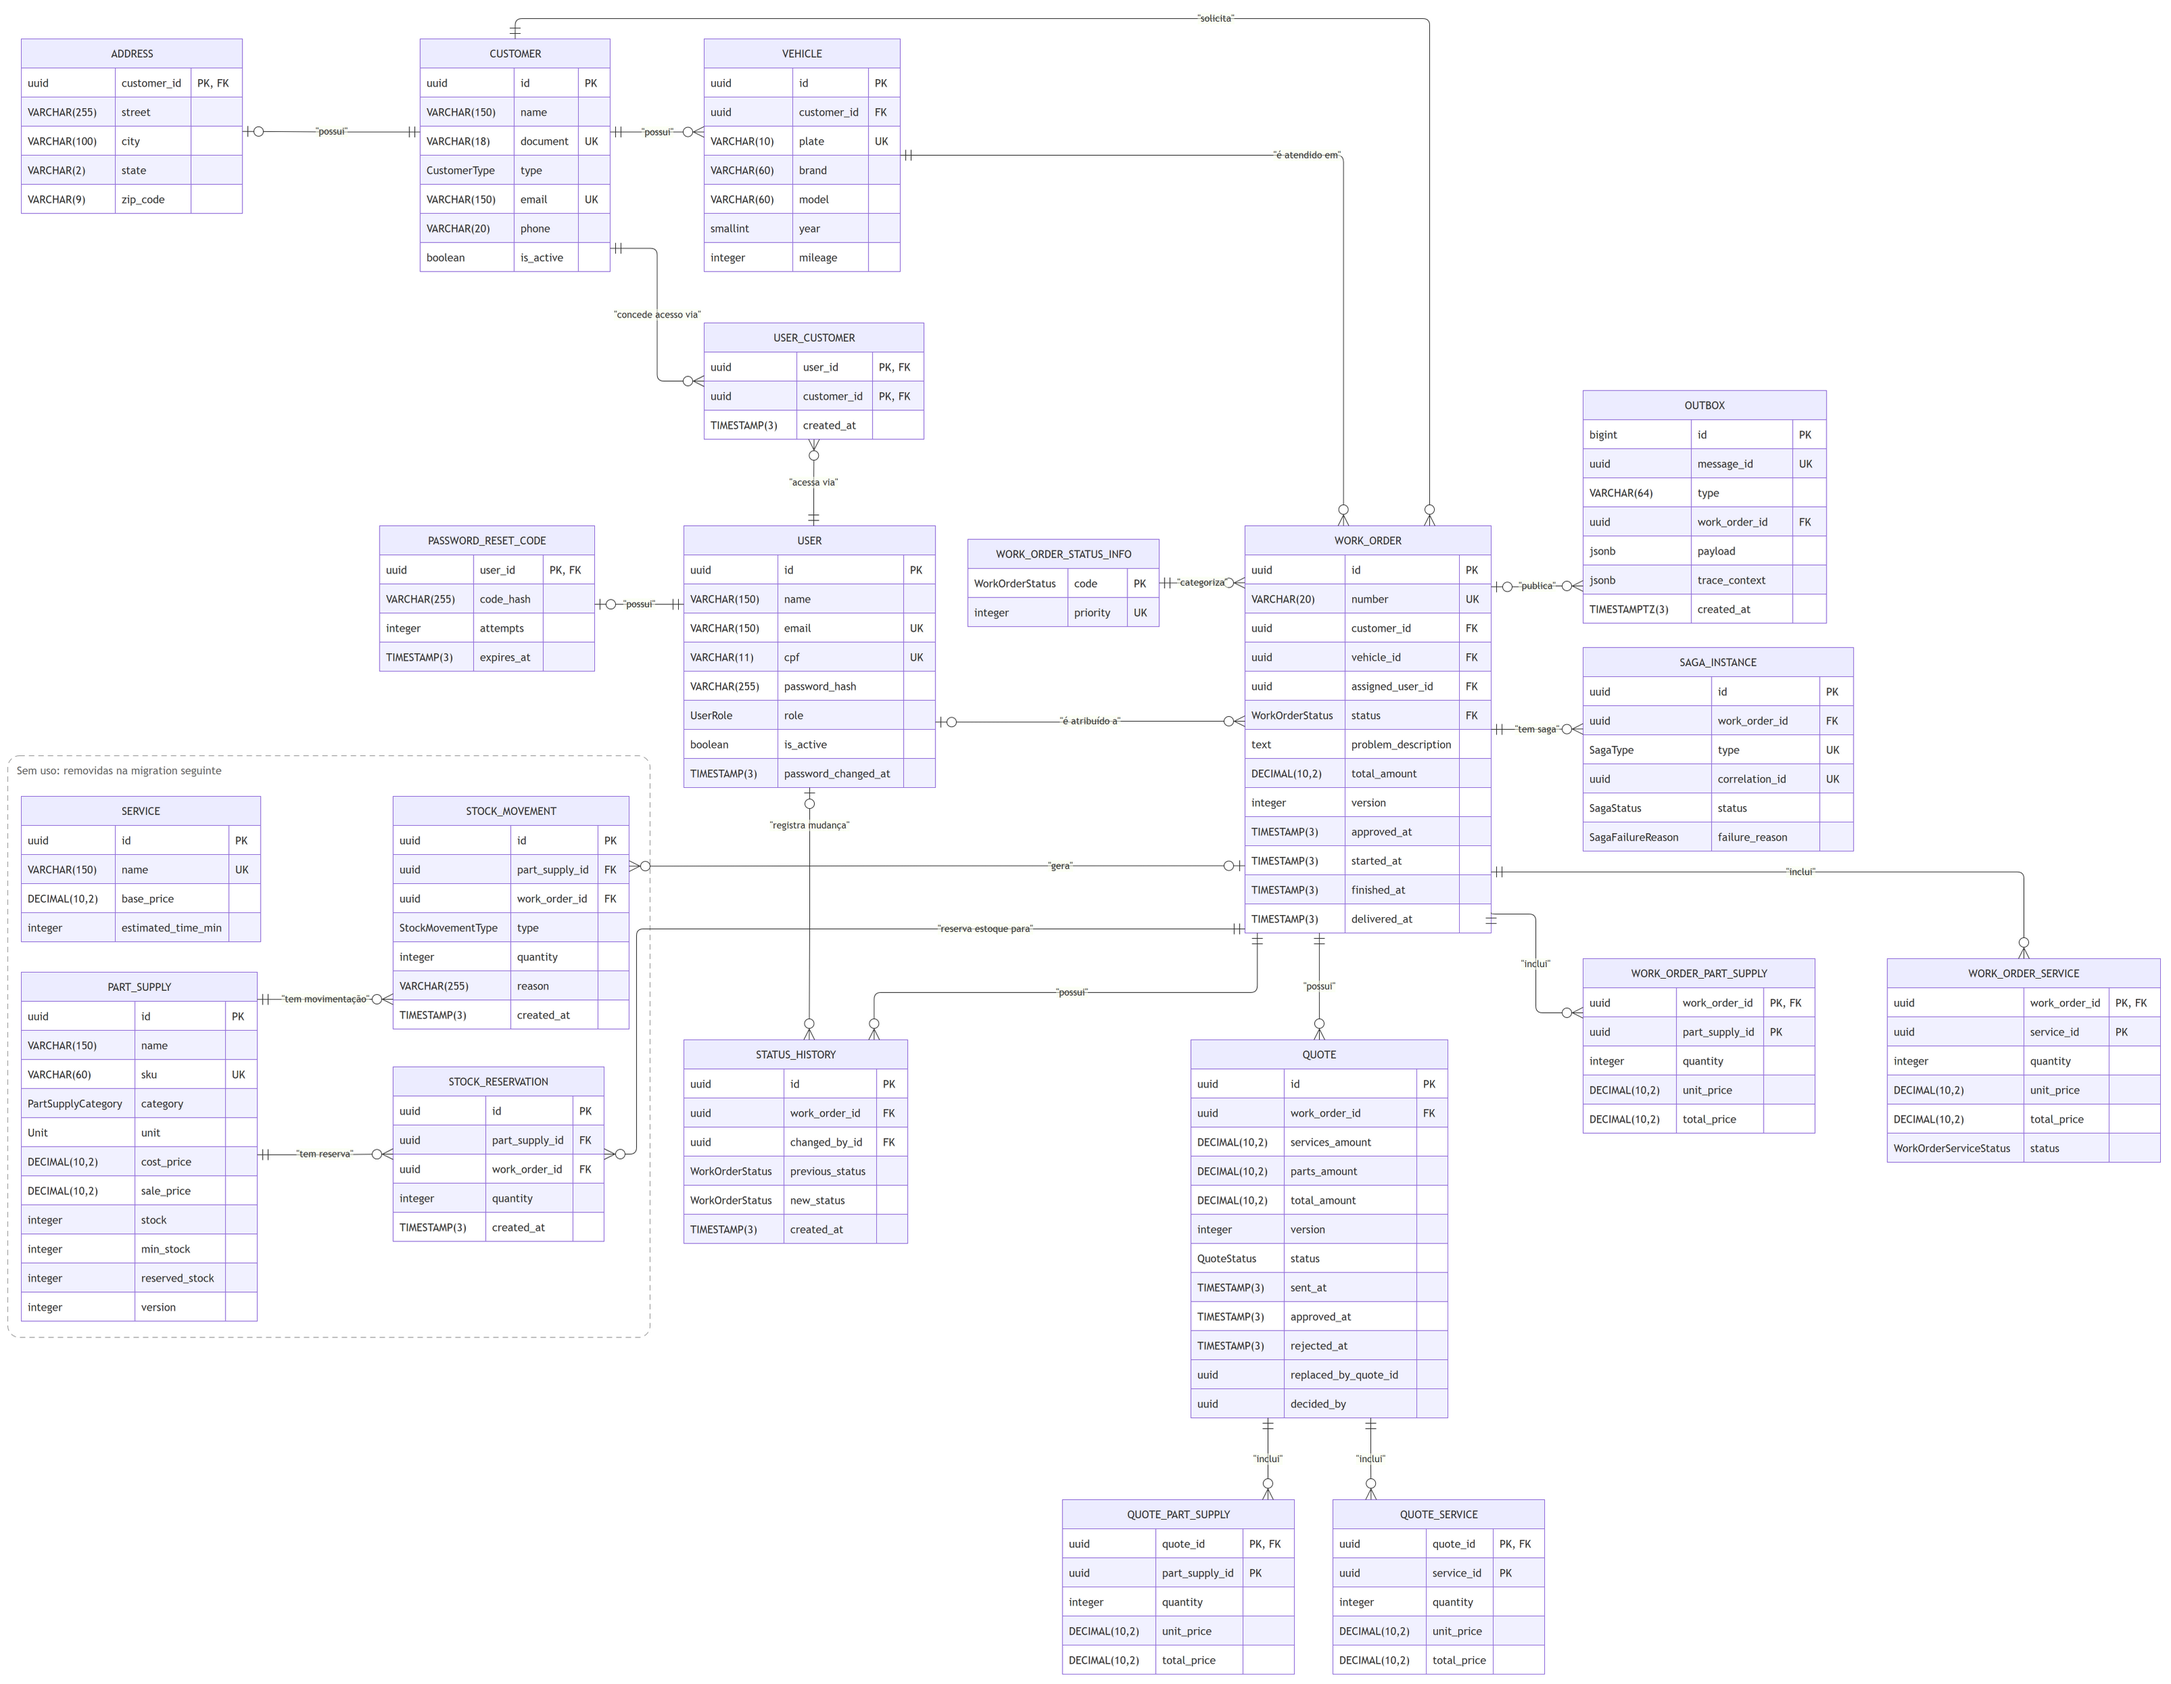
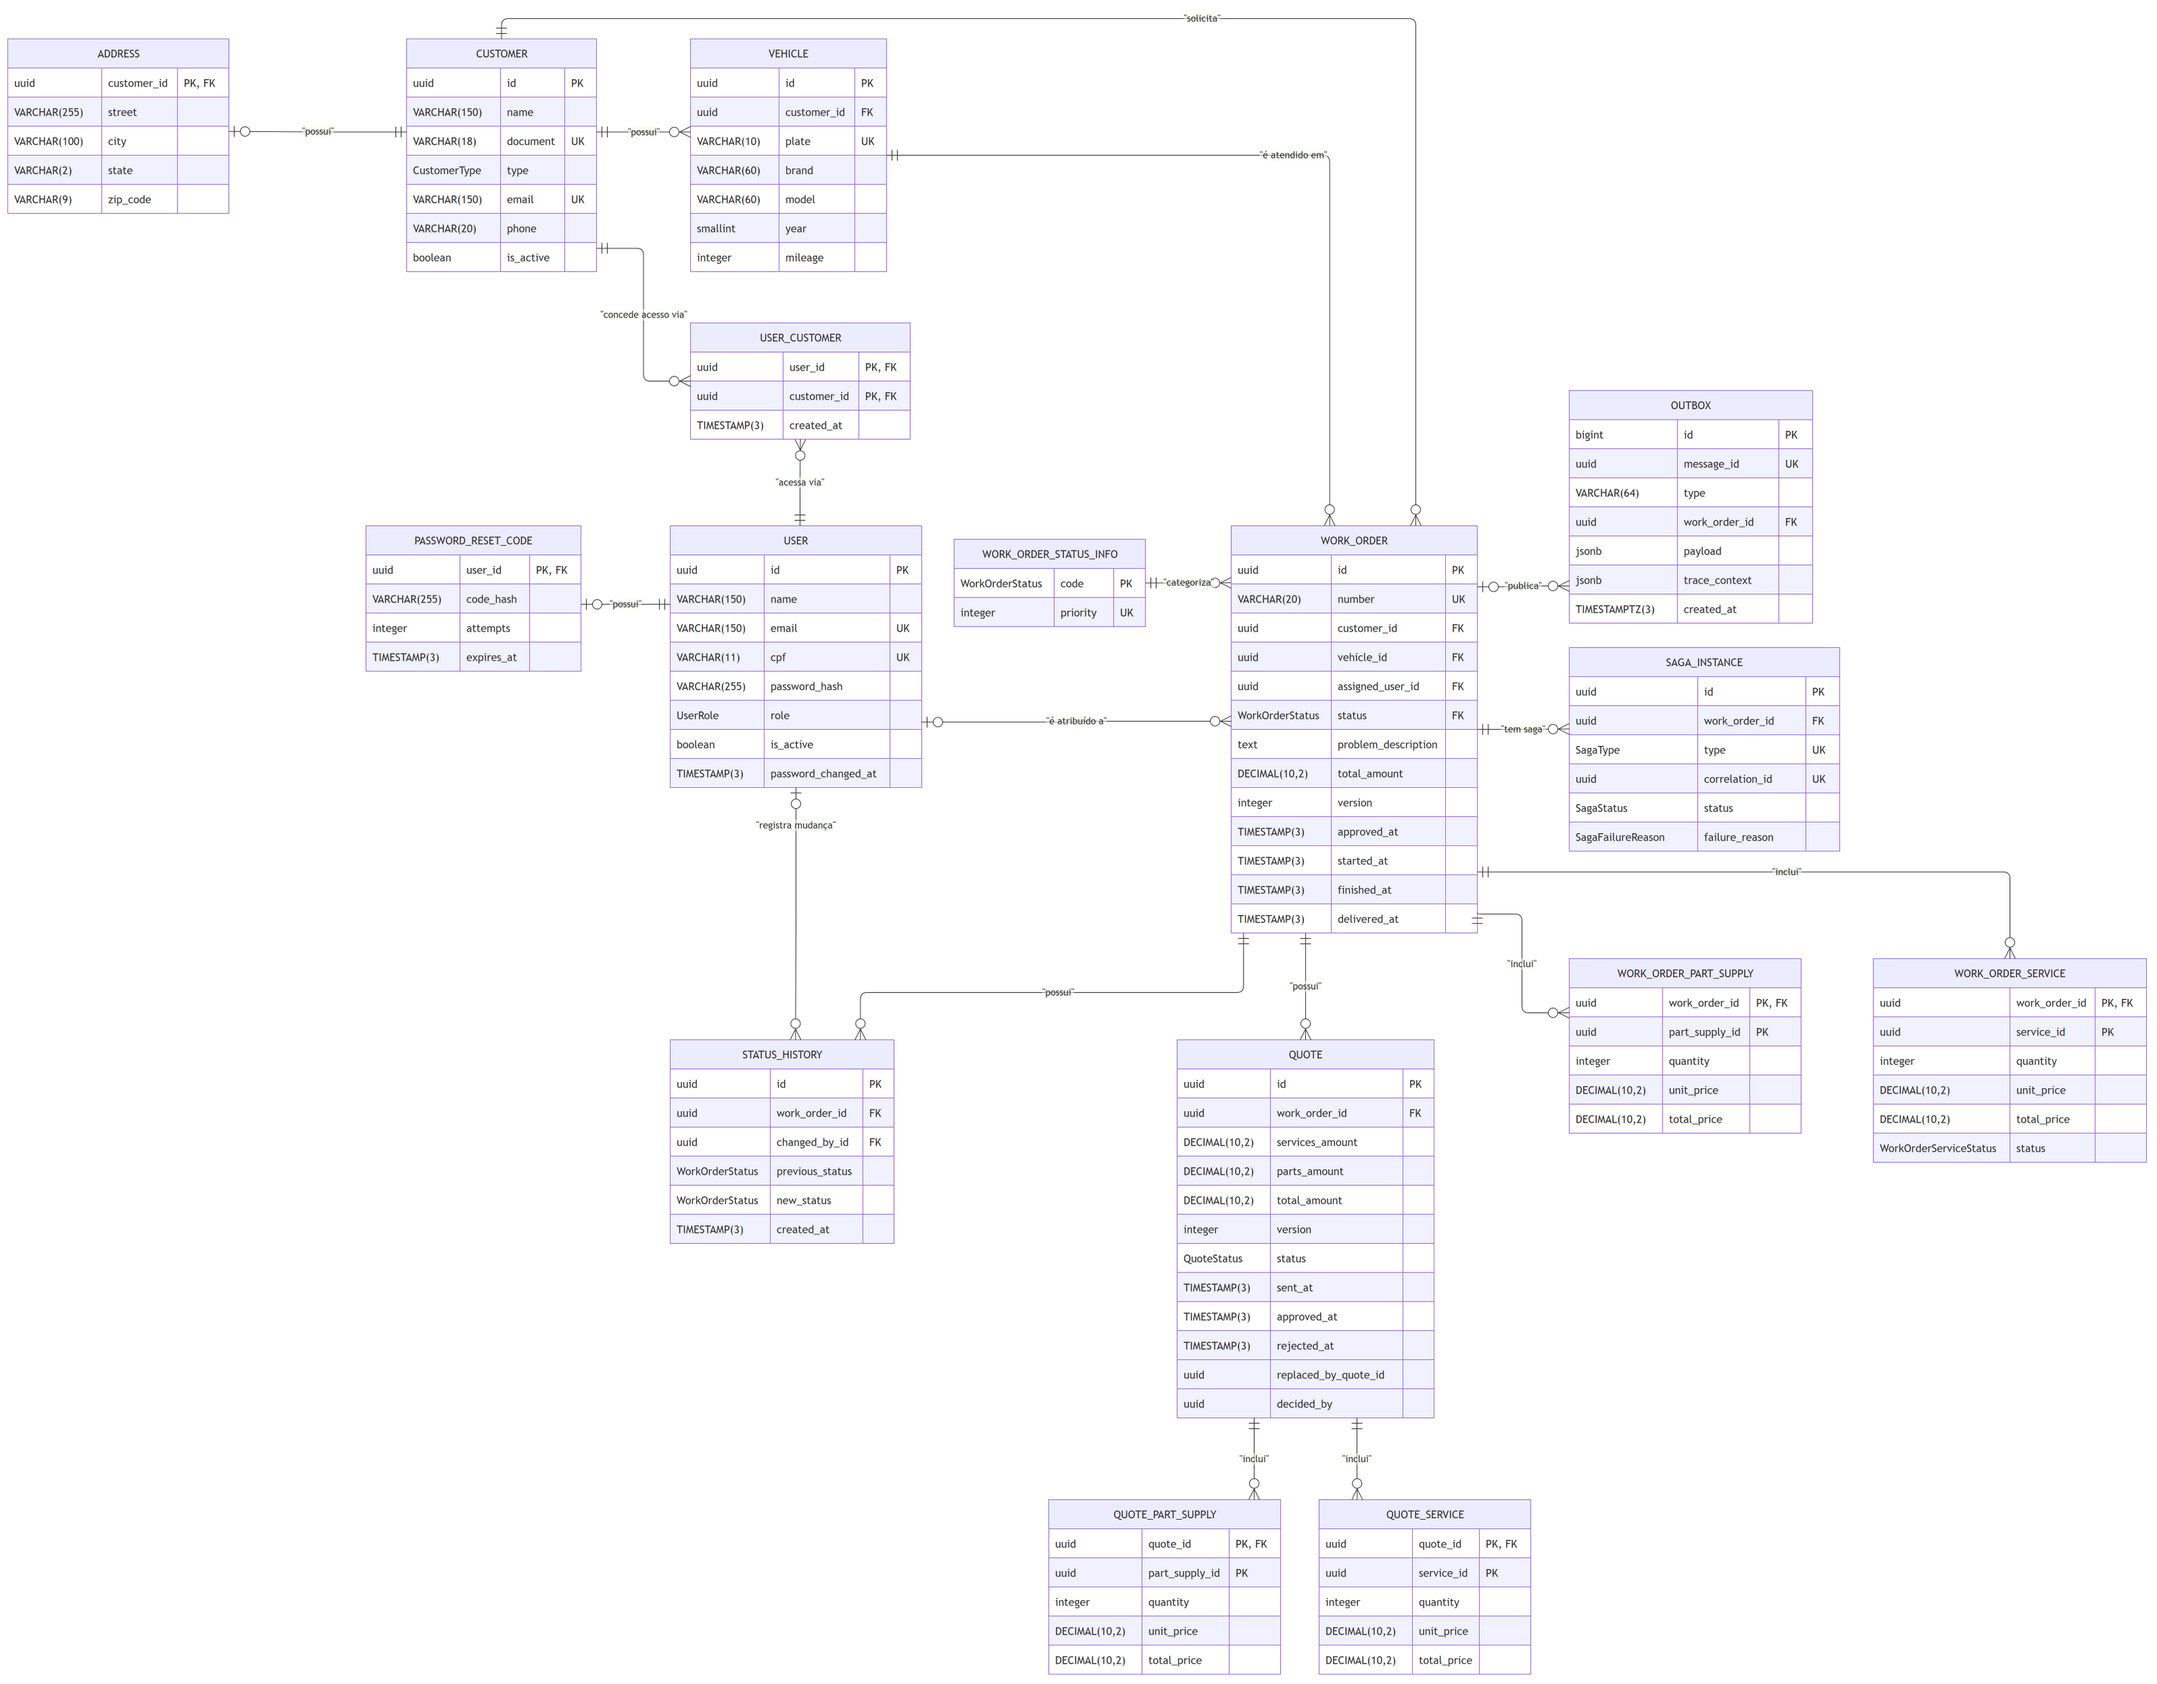
refactor: drop catalog and stock tables

diff --git a/app/test/helpers/db-cleanup.helper.ts b/app/test/helpers/db-cleanup.helper.ts
@@ -3,8 +3,6 @@ import { PrismaService } from '../../src/infrastructure/persistence/prisma/prism
 export async function cleanDatabase(prisma: PrismaService): Promise<void> {
   await prisma.outboxMessage.deleteMany();
   await prisma.sagaInstance.deleteMany();
-  await prisma.stockReservation.deleteMany();
-  await prisma.stockMovement.deleteMany();
   await prisma.statusHistory.deleteMany();
   await prisma.quoteService.deleteMany();
   await prisma.quotePartSupply.deleteMany();
@@ -15,7 +13,5 @@ export async function cleanDatabase(prisma: PrismaService): Promise<void> {
   await prisma.address.deleteMany();
   await prisma.vehicle.deleteMany();
   await prisma.customer.deleteMany();
-  await prisma.partSupply.deleteMany();
-  await prisma.service.deleteMany();
   await prisma.user.deleteMany();
 }

diff --git a/docs/database.md b/docs/database.md
@@ -4,7 +4,7 @@ Modelo relacional (PostgreSQL) da API, definido em [`prisma/schema.prisma`](../a
 
 ## Diagrama entidade-relacionamento
 
-<p align="center"><img src="diagrams/database-er.png" alt="Diagrama entidade-relacionamento dos 20 modelos do schema Prisma: User, Customer, Address, Vehicle, WorkOrderStatusInfo, WorkOrder e seus itens de linha (WorkOrderService, WorkOrderPartSupply), Quote (com decided_by e replaced_by_quote_id) e seus itens de linha (QuoteService, QuotePartSupply), StatusHistory, SagaInstance (tabela saga_instances), UserCustomer, PasswordResetCode e OutboxMessage (tabela outbox), além das tabelas de catálogo e estoque sem uso (Service, PartSupply, StockMovement, StockReservation), às quais os itens de OS e de orçamento não têm mais chave estrangeira; com tipos reais do Postgres, chaves primárias, estrangeiras e únicas" width="100%"></p>
+<p align="center"><img src="diagrams/database-er.png" alt="Diagrama entidade-relacionamento dos 16 modelos do schema Prisma: User, Customer, Address, Vehicle, WorkOrderStatusInfo, WorkOrder e seus itens de linha (WorkOrderService, WorkOrderPartSupply), Quote (com decided_by e replaced_by_quote_id) e seus itens de linha (QuoteService, QuotePartSupply), StatusHistory, SagaInstance (tabela saga_instances), UserCustomer, PasswordResetCode e OutboxMessage (tabela outbox); com tipos reais do Postgres, chaves primárias, estrangeiras e únicas" width="100%"></p>
 
 Os tipos de coluna mostrados no diagrama são os tipos **reais gerados no Postgres** (`VARCHAR(n)`, `TIMESTAMP(3)`, `DECIMAL(10,2)`, os enums nomeados, etc.), conferidos a partir das migrations — não os tipos abstratos do schema Prisma (`String`, `Int`, `DateTime`).
 
@@ -43,10 +43,6 @@ Os tipos de coluna mostrados no diagrama são os tipos **reais gerados no Postgr
   - **Sem `version`.** Toda escrita na Saga vai numa transação que também grava com versão a OS ou os orçamentos, e a fila FIFO entrega as respostas do Inventory em ordem por OS.
   - O índice em `work_order_id` atende a consulta que barra criação, envio e cancelamento enquanto a OS tem uma Saga em `RESERVING_STOCK`. Apagada em cascata com a OS.
 
-### Catálogo e estoque sem uso
-
-- **`services`**, **`parts_supplies`**, **`stock_movements`** e **`stock_reservations`** — o catálogo e o estoque de antes de o Inventory ser o dono deles. Nenhum código lê ou grava essas tabelas, e as FKs dos itens de OS e de orçamento para elas foram removidas. Elas continuam no schema só para que a versão anterior do serviço volte a subir se o deploy for desfeito, e saem, com os enums `StockMovementType`, `Unit` e `PartSupplyCategory`, numa migration seguinte. Desfazer só é seguro para os dados gravados antes da virada: serviços e peças criados depois disso existem só no Inventory, e a versão anterior não os conhece (ver [ADR 0023](adr/0023-catalogo-e-estoque-no-inventory-com-reserva-pela-saga.md)).
-
 ### Mensageria
 
 - **`outbox`** (`OutboxMessage`) — mensagens a publicar, gravadas na mesma transação da mudança de estado que as origina e apagadas pelo relay depois de publicadas no tópico SNS; por isso a tabela fica quase sempre vazia.
@@ -60,7 +56,7 @@ Os tipos de coluna mostrados no diagrama são os tipos **reais gerados no Postgr
 
 ## Enums
 
-`UserRole`, `CustomerType`, `WorkOrderStatus`, `WorkOrderServiceStatus`, `QuoteStatus`, `SagaType`, `SagaStatus`, `SagaFailureReason`, e os três das tabelas de catálogo sem uso (`StockMovementType`, `Unit`, `PartSupplyCategory`). `UserRole` **não** ganhou um valor `CUSTOMER` — o acesso externo não é modelado como papel interno (ver [ADR 0004](adr/0004-autenticacao-de-clientes.md)).
+`UserRole`, `CustomerType`, `WorkOrderStatus`, `WorkOrderServiceStatus`, `QuoteStatus`, `SagaType`, `SagaStatus` e `SagaFailureReason`. `UserRole` **não** ganhou um valor `CUSTOMER` — o acesso externo não é modelado como papel interno (ver [ADR 0004](adr/0004-autenticacao-de-clientes.md)).
 
 ## Convenções de modelagem
 

diff --git a/docs/architecture.md b/docs/architecture.md
@@ -239,7 +239,7 @@ app/test/
 app/prisma.config.ts                 # Configuração do Prisma v7 (schema, migrations, seed e datasource)
 
 app/prisma/
-├── schema.prisma                    # Schema do banco (20 modelos, 11 enums)
+├── schema.prisma                    # Schema do banco (16 modelos, 8 enums)
 ├── migrations/                      # Migrations geradas pelo Prisma — inclui a sequence
 │                                    # `work_order_number_seq` (números de OS),
 │                                    # endurecimento de cascade deletes,
@@ -253,7 +253,7 @@ app/prisma/
 
 ## Modelos do banco de dados
 
-20 modelos, cobrindo identidade/acesso, veículos, Ordem de Serviço, orçamento, o estado da Saga de aprovação e o outbox da mensageria, mais as tabelas de catálogo e estoque, sem uso desde que o Inventory passou a ser o dono delas e removidas numa migration seguinte. Diagrama entidade-relacionamento (com os tipos reais do Postgres), explicação tabela a tabela, enums e convenções de modelagem: ver [`docs/database.md`](database.md).
+16 modelos, cobrindo identidade/acesso, veículos, Ordem de Serviço, orçamento, o estado da Saga de aprovação e o outbox da mensageria. Diagrama entidade-relacionamento (com os tipos reais do Postgres), explicação tabela a tabela, enums e convenções de modelagem: ver [`docs/database.md`](database.md).
 
 ## DDD — Aggregate Roots, Entidades e Value Objects
 
